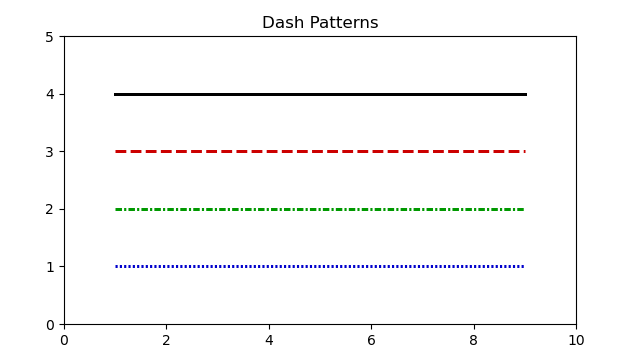
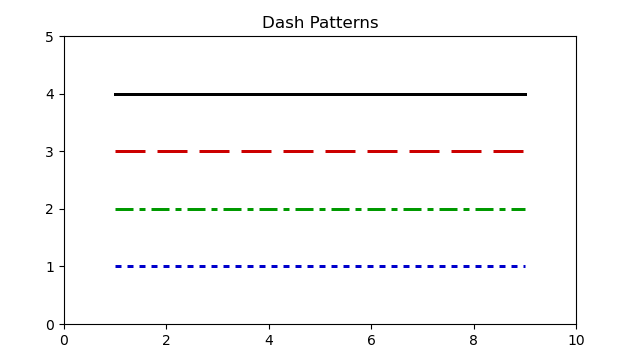
feat: add DashUnits support and update SetDashes method for Line2D; enhance dashes example

diff --git a/core/line.go b/core/line.go
@@ -15,15 +15,40 @@ const (
 	LineDrawStyleStepsPost
 )
 
+// DashUnits describes the unit system used by Line2D.Dashes.
+type DashUnits uint8
+
+const (
+	// DashUnitsPixels interprets Dashes as renderer pixel lengths. This keeps
+	// existing direct field assignments and backend-facing paint unchanged.
+	DashUnitsPixels DashUnits = iota
+	// DashUnitsMatplotlib interprets Dashes like Matplotlib Line2D.set_dashes:
+	// input lengths are in points and, with the default scale_dashes=True, are
+	// scaled by the line width before rasterization.
+	DashUnitsMatplotlib
+)
+
 // Line2D is a minimal polyline artist (stroke only).
 type Line2D struct {
 	XY        []geom.Pt     // data space points
 	W         float64       // stroke width (px for now)
 	Col       render.Color  // stroke color
 	Dashes    []float64     // dash pattern (on/off pairs)
+	DashUnits DashUnits     // unit system for Dashes
 	DrawStyle LineDrawStyle // optional step-style connection mode
 	Label     string        // series label for legend
 	z         float64       // z-order
+}
+
+// SetDashes sets the dash sequence using Matplotlib Line2D.set_dashes units.
+func (l *Line2D) SetDashes(seq ...float64) {
+	if len(seq) == 0 {
+		l.Dashes = nil
+		l.DashUnits = DashUnitsPixels
+		return
+	}
+	l.Dashes = append([]float64(nil), seq...)
+	l.DashUnits = DashUnitsMatplotlib
 }
 
 // Draw renders the line by transforming points to pixel space and drawing a path.
@@ -50,10 +75,23 @@ func (l *Line2D) Draw(r render.Renderer, ctx *DrawContext) {
 		LineCap:    render.CapButt,   // Default to butt caps
 		MiterLimit: 10.0,             // Standard miter limit
 		Stroke:     l.Col,
-		Dashes:     l.Dashes, // Use dash pattern if provided
+		Dashes:     lineDashesForPaint(l.Dashes, l.W, l.DashUnits),
 		Snap:       render.SnapAuto,
 	}
 	r.Path(p, &paint)
+}
+
+func lineDashesForPaint(dashes []float64, lineWidth float64, units DashUnits) []float64 {
+	if len(dashes) == 0 {
+		return nil
+	}
+	out := append([]float64(nil), dashes...)
+	if units == DashUnitsMatplotlib {
+		for i := range out {
+			out[i] *= lineWidth
+		}
+	}
+	return out
 }
 
 // Z returns the z-order for sorting.

diff --git a/core/line_test.go b/core/line_test.go
@@ -90,6 +90,40 @@ func TestLine2D_DefaultsToButtCaps(t *testing.T) {
 	}
 }
 
+func TestLine2D_SetDashesUsesMatplotlibUnits(t *testing.T) {
+	line := &Line2D{
+		XY: []geom.Pt{
+			{X: 0, Y: 0},
+			{X: 1, Y: 0},
+		},
+		W:   3.0,
+		Col: render.Color{A: 1},
+	}
+	line.SetDashes(10, 4)
+
+	r := &recordingRenderer{}
+	ctx := &DrawContext{
+		DataToPixel: Transform2D{
+			XScale:      transform.NewLinear(0, 1),
+			YScale:      transform.NewLinear(0, 1),
+			AxesToPixel: transform.NewAffine(geom.Identity()),
+		},
+		RC:   style.Default,
+		Clip: geom.Rect{},
+	}
+
+	line.Draw(r, ctx)
+
+	if len(r.pathCalls) != 1 {
+		t.Fatalf("expected one Path call, got %d", len(r.pathCalls))
+	}
+	got := r.pathCalls[0].paint.Dashes
+	want := []float64{30, 12}
+	if len(got) != len(want) || got[0] != want[0] || got[1] != want[1] {
+		t.Fatalf("paint dashes = %v, want %v", got, want)
+	}
+}
+
 func TestLine2D_SingletonData(t *testing.T) {
 	line := &Line2D{
 		XY:  []geom.Pt{{X: 5, Y: 0.5}}, // single point

diff --git a/test/matplotlib_ref/plots/dashes.py b/test/matplotlib_ref/plots/dashes.py
@@ -20,9 +20,6 @@ def dashes(out_dir):
     ax.set_xlim(0, 10)
     ax.set_ylim(0, 5)
 
-    # Dash values match golden_test.go (pixels in Go renderer).
-    # Empirically: set_dashes units map to ~2.8 pixels at DPI=100,
-    # so the conversion is p * 36 / DPI (= p / 2.78 at DPI=100).
     specs = [
         (4, [],               (0,   0,   0)),
         (3, [10, 4],          (0.8, 0,   0)),
@@ -32,7 +29,7 @@ def dashes(out_dir):
     for y_val, pattern, color in specs:
         (line,) = ax.plot([1, 9], [y_val, y_val], color=color, linewidth=lw(3))
         if pattern:
-            line.set_dashes([p * 36.0 / DPI for p in pattern])
+            line.set_dashes(pattern)
 
     save(fig, out_dir, "dashes")
 

diff --git a/examples/lines/dashes/dashes.go b/examples/lines/dashes/dashes.go
@@ -44,7 +44,7 @@ func Dashes() *core.Figure {
 			Col: spec.color,
 		}
 		if len(spec.pattern) > 0 {
-			line.Dashes = spec.pattern
+			line.SetDashes(spec.pattern...)
 		}
 		ax.Add(line)
 	}
